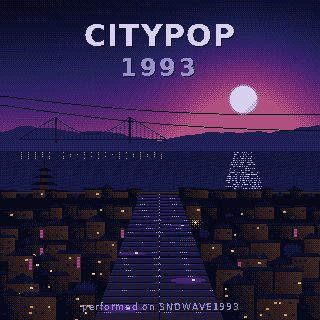
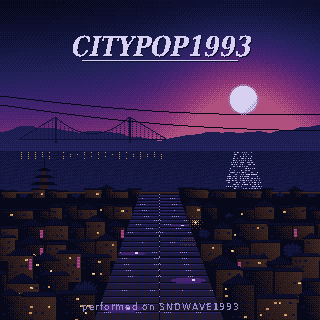
CITYPOP1993: the cover carries the brand kit's wordmark
The wordmark's 1-bit mask is drawn in the scene's own light palette over a one-pixel shadow, at 1x on the 320 cover (640 at 2x, nearest).
icon-32 is the moon, cropped.

Changed region(s): [[0.2188, 0.0625, 0.7812, 0.25]]

diff --git a/packages/basilisk-synth/library/albums/citypop-deprogrammed/tools/cover_wordmark.py b/packages/basilisk-synth/library/albums/citypop-deprogrammed/tools/cover_wordmark.py
@@ -1,0 +1,39 @@
+"""cover_wordmark.py OUTDIR: the CITYPOP1993 cover. The scene comes from art/make_art.py (seed 1989, the cover framing),
+and the title is the brand kit's wordmark (design/brand/sndwave1993/album/citypop1993-wordmark-192.png). Its 1-bit
+mask is drawn in the scene's own light palette index over a one-pixel dark shadow, so every pixel stays a palette colour.
+Writes cover.png (320), cover-640.png (2x, nearest) and icon-32.png (the moon, cropped). Leaves make_art.py untouched."""
+import os, sys
+import numpy as np
+from PIL import Image
+
+HERE = os.path.dirname(os.path.abspath(__file__))
+REPO = os.path.abspath(os.path.join(HERE, '../../../../../..'))
+sys.path.insert(0, os.path.join(HERE, '..', 'art'))
+import make_art as M   # noqa: E402
+
+LIGHT, SHADOW = 14, 1   # make_art's palette: #d8d0f0 on #0d1030
+
+
+def main():
+    out = sys.argv[1]
+    os.makedirs(out, exist_ok=True)
+    c, cm = M.scene(320, 320, seed=1989, cover=True)
+    wm = np.array(Image.open(os.path.join(REPO, 'design/brand/sndwave1993/album/citypop1993-wordmark-192.png')).convert('RGBA'))
+    mask = wm[:, :, 3] > 127
+    h, w = mask.shape
+    x0, y0 = (320 - w) // 2, 26
+    ys, xs = np.nonzero(mask)
+    c[ys + y0 + 1, xs + x0 + 1] = SHADOW
+    c[ys + y0, xs + x0] = LIGHT
+    w3, _ = M.text1bit(np.zeros((40, 400), np.uint8), (0, 0), 'performed on SNDWAVE1993', 9, 1, font='DejaVuSans.ttf')
+    M.text1bit(c, ((320 - w3) // 2, 300), 'performed on SNDWAVE1993', 9, 15, font='DejaVuSans.ttf')
+    M.save(c, os.path.join(out, 'cover.png'))
+    M.save(c, os.path.join(out, 'cover-640.png'), 2)
+    mx, my, _ = cm.get('moon', [180, 100, 10])
+    x, y = int(np.clip(mx - 32, 0, 256)), int(np.clip(my - 32, 0, 256))
+    Image.open(os.path.join(out, 'cover.png')).crop((x, y, x + 64, y + 64)).resize((32, 32), Image.NEAREST).save(os.path.join(out, 'icon-32.png'))
+    print('cover ->', out)
+
+
+if __name__ == '__main__':
+    main()
